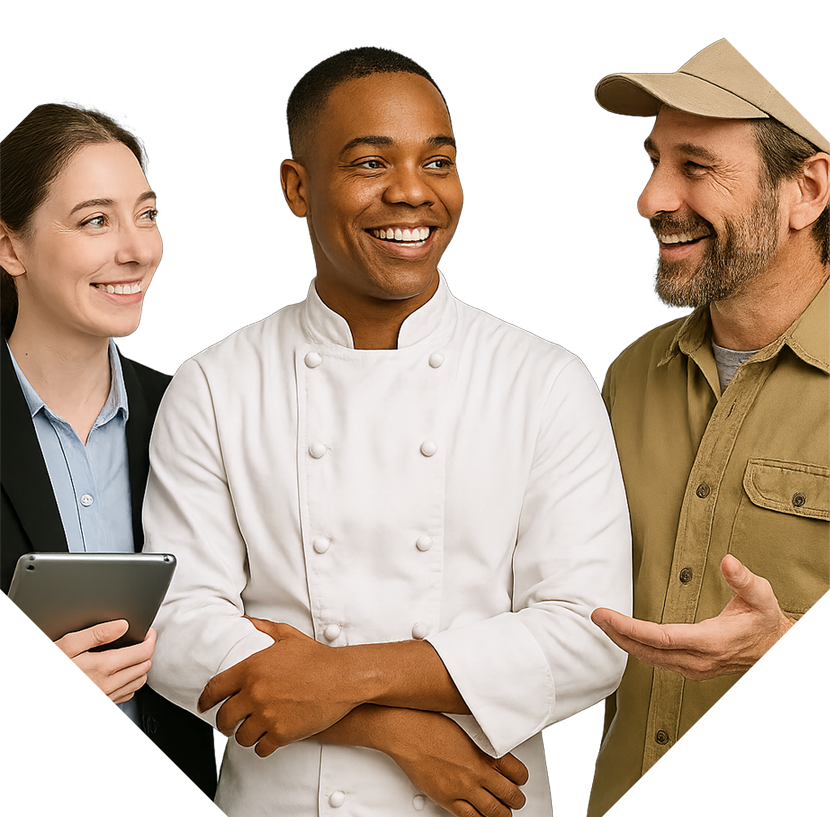
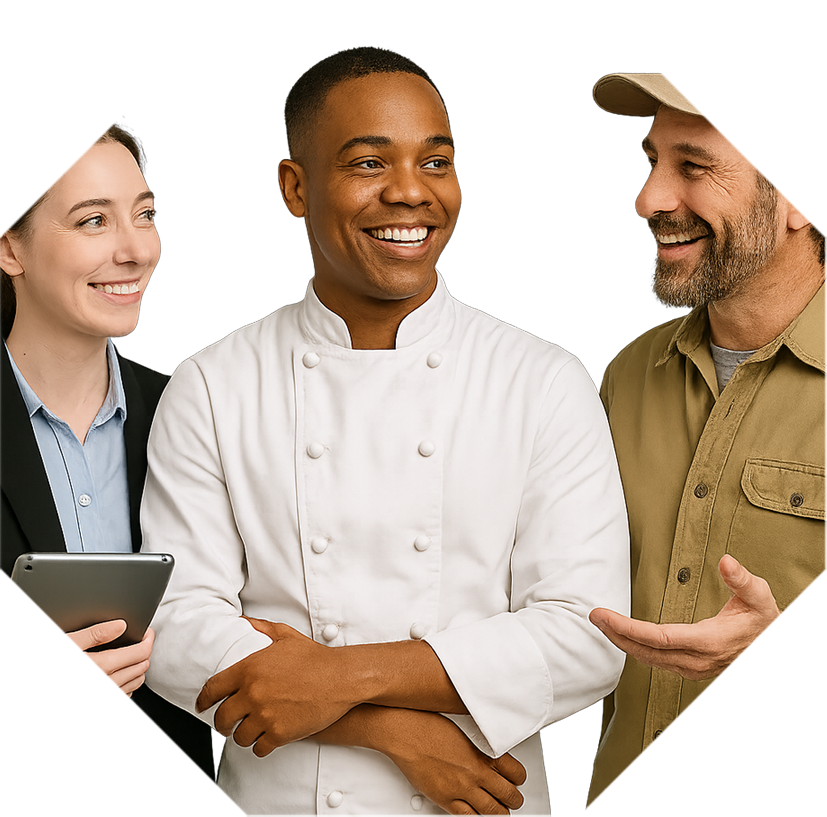
section collaboration

diff --git a/src/features/home/components/features-section.tsx b/src/features/home/components/features-section.tsx
@@ -1,0 +1,139 @@
+"use client";
+
+import React, { useRef } from "react";
+import { ArrowRight } from "lucide-react";
+import { motion } from "framer-motion";
+import Link from "next/link";
+import Image from "next/image";
+import { ResponsiveSection } from "@/components/ui/responsive-section";
+import { useParams } from "next/navigation";
+import { useScrollScale } from "@/hooks/use-scroll-scale";
+
+/**
+ * Composant FeaturesSection - Section principale présentant les fonctionnalités d'Octogone
+ */
+const FeaturesSection = () => {
+  // Récupérer la locale actuelle des paramètres d'URL
+  const params = useParams();
+  const locale = params ? (typeof params === 'object' && 'locale' in params ? params.locale as string : "fr") : "fr";
+  
+  // Utiliser le hook personnalisé pour l'animation de l'octogone avec effet inversé
+  const octogoneScale = useScrollScale({
+    initialScale: 0.9,
+    finalScale: 1.1,
+    scrollRange: 400,
+    reverse: true // Effet inversé par rapport au héros
+  });
+
+  // Animation pour les éléments qui apparaissent au défilement
+  const fadeInUpVariants = {
+    hidden: { opacity: 0, y: 20 },
+    visible: { opacity: 1, y: 0 }
+  };
+
+  return (
+    <ResponsiveSection 
+      bgColor="bg-marine-50" 
+      spacing="xxxl"
+      className="overflow-visible"
+    >
+      <div className="grid grid-cols-1 lg:grid-cols-2 gap-8 lg:gap-16 items-center">
+        {/* Colonne de gauche - Image happy_octogone_users */}
+        <motion.div
+          initial="hidden"
+          whileInView="visible"
+          viewport={{ once: true, margin: "-100px" }}
+          transition={{ duration: 0.6 }}
+          variants={fadeInUpVariants}
+          className="relative order-2 lg:order-1 flex justify-center"
+        >
+          <div className="relative flex justify-center items-center mx-auto">
+            <div className="relative aspect-square w-[260px] xs:w-[320px] md:w-[380px] lg:w-[480px] xl:w-[580px] flex justify-center items-center">
+              {/* Octogone bleu de fond avec animation inversée */}
+              <div 
+                className="absolute inset-0 m-auto aspect-square w-full h-full bg-[#dbeafe] transition-transform duration-300 ease-out"
+                style={{
+                  clipPath: "polygon(30% 0%, 70% 0%, 100% 30%, 100% 70%, 70% 100%, 30% 100%, 0% 70%, 0% 30%)",
+                  zIndex: 2,
+                  transformOrigin: "center center",
+                  transform: `scale(${octogoneScale})`
+                }}
+              />
+              
+              {/* Image principale */}
+              <div className="absolute inset-0 flex items-center justify-center z-10">
+                <Image
+                  src="/images/happy_octogone_users.png?v=3"
+                  alt="Utilisateurs satisfaits d'Octogone"
+                  width={500}
+                  height={500}
+                  priority
+                  className="z-[5] w-[190px] xs:w-[260px] h-[190px] xs:h-[260px] md:w-[300px] md:h-[300px] lg:w-[380px] lg:h-[380px] xl:w-[460px] xl:h-[460px]"
+                  style={{ objectFit: "contain" }}
+                />
+              </div>
+            </div>
+          </div>
+        </motion.div>
+        
+        {/* Colonne de droite - Texte et bullet points */}
+        <motion.div
+          initial="hidden"
+          whileInView="visible"
+          viewport={{ once: true, margin: "-100px" }}
+          transition={{ duration: 0.6, delay: 0.2 }}
+          variants={fadeInUpVariants}
+          className="flex flex-col order-1 lg:order-2"
+        >
+          {/* Titre principal */}
+          <h2 className="text-2xl xs:text-3xl sm:text-4xl font-bold text-marine-900 mb-4">
+            {locale === "fr" ? "Pensé pour collaborer. Conçu pour mieux gérer." : "Designed for collaboration. Built for better management."}
+          </h2>
+          
+          {/* Paragraphe principal */}
+          <div className="space-y-4 mb-8">
+            <p className="text-lg xs:text-xl text-marine-700">
+              {locale === "fr" 
+                ? "Octogone connecte les gestionnaires, les équipes en salle ou en cuisine, et les fournisseurs — sans friction, sans double saisie, sans décalage." 
+                : "Octogone connects managers, front-of-house and kitchen teams, and suppliers — without friction, without double entry, without lag."}
+            </p>
+            <p className="text-lg xs:text-xl text-marine-700">
+              {locale === "fr" 
+                ? "Les données sont à jour, accessibles et partagées en temps réel. Vous gérez vos restaurants avec plus de clarté, plus de fluidité, même en multi-établissements." 
+                : "Data is up-to-date, accessible, and shared in real-time. Manage your restaurants with greater clarity and fluidity, even across multiple locations."}
+            </p>
+          </div>
+          
+          {/* Points clés */}
+          <ul className="space-y-4 mb-8">
+            {(locale === "fr" ? [
+              "Les gestionnaires accèdent à un portrait clair de tous leurs sites, prennent de meilleures décisions, basées sur des données fiables",
+              "Les équipes voient quoi produire, avec quels produits, à quel coût — tout est standardisé et simple à suivre",
+              "Les fournisseurs injectent automatiquement leurs produits et leurs factures dans Octogone grâce à l'IA — sans action requise côté client",
+              "Les opérations sont alignées, peu importe le nombre d'établissements"
+            ] : [
+              "Managers access a clear picture of all their locations, make better decisions based on reliable data",
+              "Teams see what to produce, with which products, at what cost — everything is standardized and easy to follow",
+              "Suppliers automatically inject their products and invoices into Octogone using AI — no client-side action required",
+              "Operations are aligned, regardless of the number of establishments"
+            ]).map((item, index) => (
+              <li key={index} className="flex items-start">
+                <span className="text-gold-500 mr-2">✓</span>
+                <span className="text-marine-800">{item}</span>
+              </li>
+            ))}
+          </ul>
+          
+          {/* Accroche finale */}
+          <p className="text-lg font-medium text-marine-900">
+            {locale === "fr" 
+              ? "Une seule plateforme. Des équipes connectées. Une gestion multi-sites simplifiée." 
+              : "One platform. Connected teams. Simplified multi-location management."}
+          </p>
+        </motion.div>
+      </div>
+    </ResponsiveSection>
+  );
+};
+
+export default FeaturesSection;

diff --git a/src/app/[locale]/page.tsx b/src/app/[locale]/page.tsx
@@ -2,6 +2,7 @@
 
 import { motion } from "framer-motion";
 import Hero from "@/features/home/components/hero";
+import FeaturesSection from "@/features/home/components/features-section";
 // Ces imports ont été nettoyés car ils ne sont plus utilisés
 // import {
 //   ArrowRight,
@@ -63,26 +64,8 @@ export default function HomePage() {
 
       {/* Conteneur pour les autres sections qui viendront après le hero */}
       <div ref={sectionRef}>
-        {/* Section 1 */}
-        <section className="py-16 md:py-24 bg-blue-100">
-          <div className="container mx-auto px-4 sm:px-6 lg:px-8">
-            <motion.div
-              initial={{ opacity: 0, y: 20 }}
-              whileInView={{ opacity: 1, y: 0 }}
-              viewport={{ once: true }}
-              transition={{ duration: 0.6 }}
-              className="text-center"
-            >
-              <h2 className="text-2xl xs:text-3xl sm:text-4xl font-bold text-marine-800 mb-4 md:mb-6">
-                Section 1
-              </h2>
-              <p className="text-base xs:text-lg sm:text-xl text-gray-600 max-w-3xl mx-auto">
-                Description temporaire de la section avec adaptation responsive
-                pour les différents écrans.
-              </p>
-            </motion.div>
-          </div>
-        </section>
+        {/* Section 1 - Fonctionnalités principales */}
+        <FeaturesSection />
 
         {/* Section 2 */}
         <section className="py-16 md:py-24 bg-green-100">

diff --git a/src/components/ui/responsive-section.tsx b/src/components/ui/responsive-section.tsx
@@ -11,7 +11,7 @@ interface ResponsiveSectionProps extends React.HTMLAttributes<HTMLElement> {
   as?: React.ElementType;
   fullHeight?: boolean;
   noPadding?: boolean;
-  spacing?: "none" | "xs" | "sm" | "md" | "lg" | "xl";
+  spacing?: "none" | "xs" | "sm" | "md" | "lg" | "xl" | "xxl" | "xxxl";
   bgColor?: string;
   maxWidth?: "none" | "sm" | "md" | "lg" | "xl" | "2xl" | "wider" | "full";
   className?: string;
@@ -60,6 +60,8 @@ export const ResponsiveSection: React.FC<ResponsiveSectionProps> = ({
     md: "py-4 xs:py-5 sm:py-6 md:py-8 lg:py-10 xl:py-12",
     lg: "py-5 xs:py-6 sm:py-8 md:py-10 lg:py-12 xl:py-16",
     xl: "py-6 xs:py-8 sm:py-10 md:py-12 lg:py-16 xl:py-20",
+    xxl: "py-8 xs:py-12 sm:py-16 md:py-20 lg:py-24 xl:py-32",
+    xxxl: "py-12 xs:py-16 sm:py-20 md:py-28 lg:py-36 xl:py-44",
   };
 
   // Mapping des largeurs maximales
